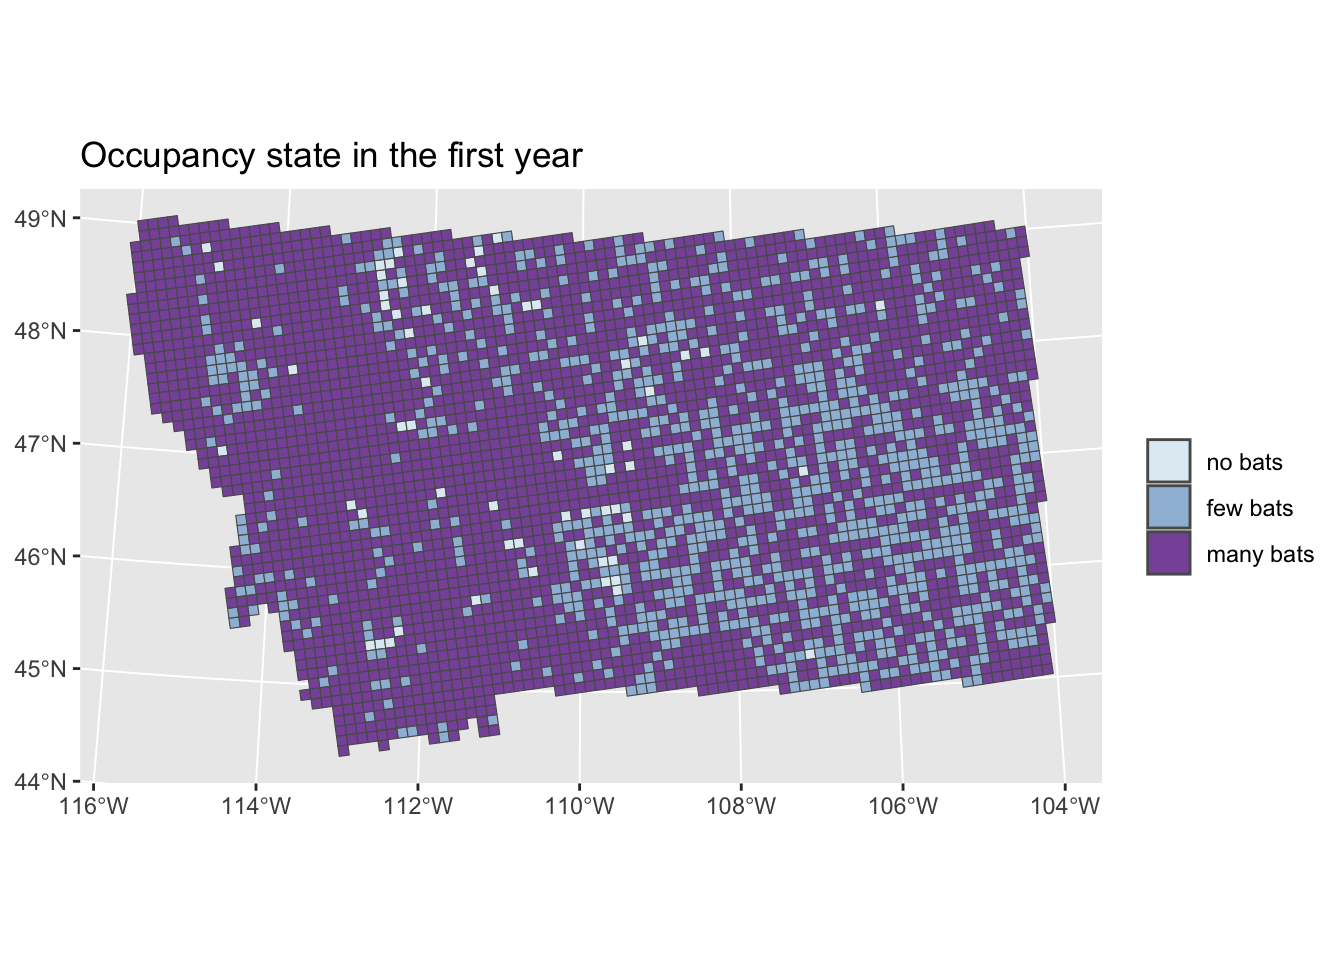
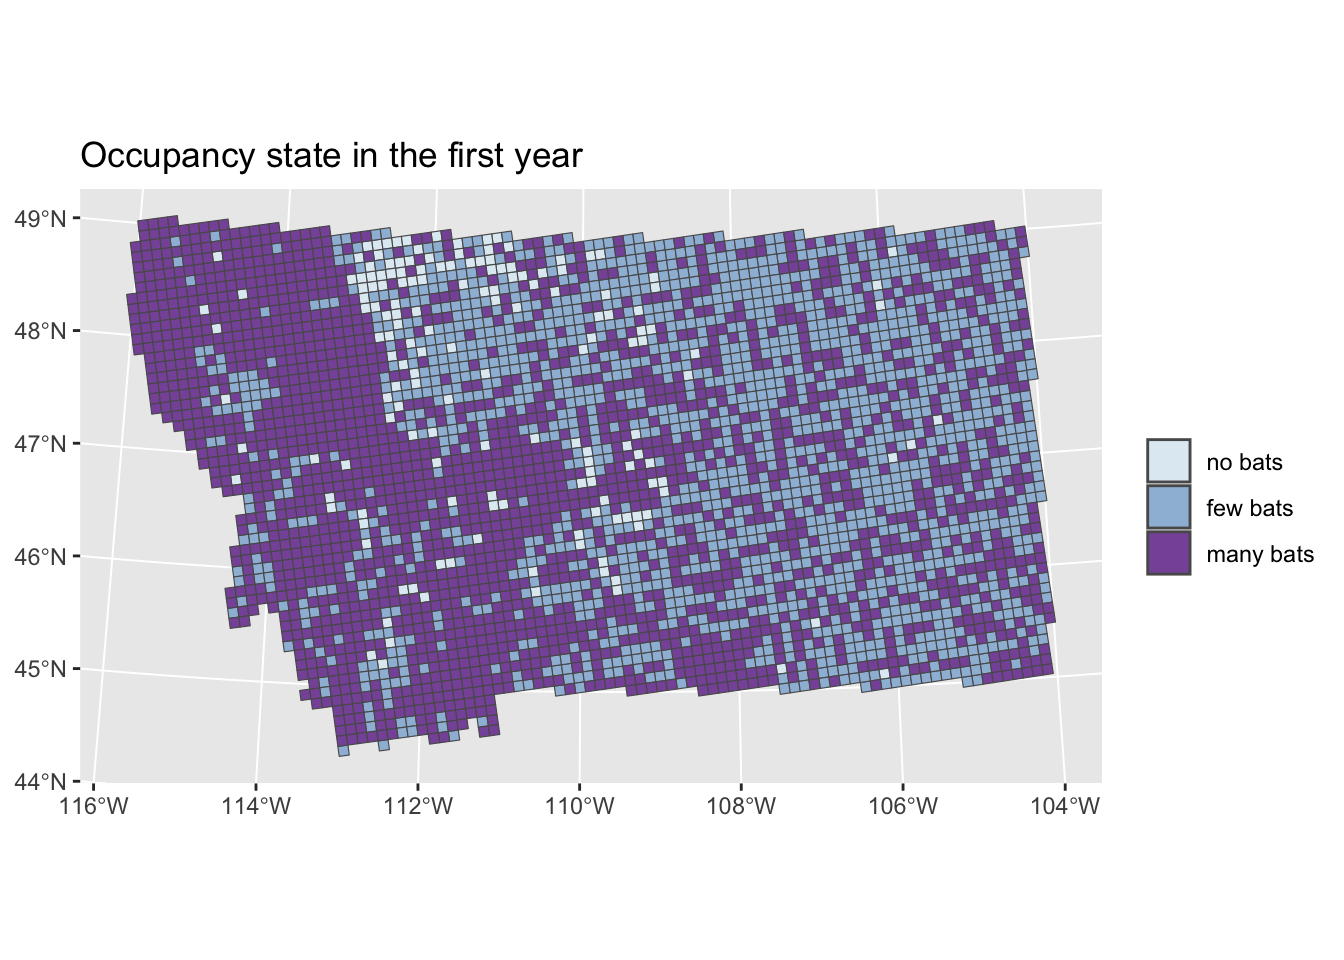
updated predictions with new output from model

Changed region(s): [[0.125, 0.2188, 0.7812, 0.7188], [0.2812, 0.75, 0.3438, 0.7812]]

diff --git a/docs/predictions.html b/docs/predictions.html
@@ -293,44 +293,46 @@ code span.wa { color: #60a0b0; font-weight: bold; font-style: italic; } /* Warni
 <span id="cb1-4"><a href="#cb1-4" aria-hidden="true" tabindex="-1"></a>nyears <span class="ot">&lt;-</span> <span class="dv">5</span></span>
 <span id="cb1-5"><a href="#cb1-5" aria-hidden="true" tabindex="-1"></a></span>
 <span id="cb1-6"><a href="#cb1-6" aria-hidden="true" tabindex="-1"></a><span class="co"># Giving intercepts for each ecoregion</span></span>
-<span id="cb1-7"><a href="#cb1-7" aria-hidden="true" tabindex="-1"></a>alpha.lpsi <span class="ot">&lt;-</span> <span class="fu">runif</span>(nregions, <span class="dv">0</span>, <span class="dv">2</span>)</span>
-<span id="cb1-8"><a href="#cb1-8" aria-hidden="true" tabindex="-1"></a>alpha.lr <span class="ot">&lt;-</span> <span class="fu">runif</span>(nregions, <span class="dv">0</span>, <span class="dv">2</span>)</span>
-<span id="cb1-9"><a href="#cb1-9" aria-hidden="true" tabindex="-1"></a></span>
-<span id="cb1-10"><a href="#cb1-10" aria-hidden="true" tabindex="-1"></a><span class="co"># Coefficients</span></span>
-<span id="cb1-11"><a href="#cb1-11" aria-hidden="true" tabindex="-1"></a><span class="co"># beta.lpsi &lt;- rnorm(8)</span></span>
-<span id="cb1-12"><a href="#cb1-12" aria-hidden="true" tabindex="-1"></a><span class="co"># beta.lr &lt;- rnorm(3)</span></span>
-<span id="cb1-13"><a href="#cb1-13" aria-hidden="true" tabindex="-1"></a></span>
-<span id="cb1-14"><a href="#cb1-14" aria-hidden="true" tabindex="-1"></a></span>
-<span id="cb1-15"><a href="#cb1-15" aria-hidden="true" tabindex="-1"></a>model_coefficients_psi_r <span class="ot">&lt;-</span> <span class="fu">readRDS</span>(<span class="at">file =</span> <span class="st">"modelouts/model_coefficients_psi_r.RDS"</span>) <span class="sc">%&gt;%</span> </span>
-<span id="cb1-16"><a href="#cb1-16" aria-hidden="true" tabindex="-1"></a>  <span class="fu">filter</span>(model <span class="sc">==</span> <span class="st">"M2"</span>)</span>
-<span id="cb1-17"><a href="#cb1-17" aria-hidden="true" tabindex="-1"></a></span>
-<span id="cb1-18"><a href="#cb1-18" aria-hidden="true" tabindex="-1"></a>beta.lpsi <span class="ot">&lt;-</span> model_coefficients_psi_r <span class="sc">%&gt;%</span> <span class="fu">filter</span>(coeff <span class="sc">==</span> <span class="st">"psi"</span>) <span class="sc">%&gt;%</span> <span class="fu">pull</span>(means)</span>
-<span id="cb1-19"><a href="#cb1-19" aria-hidden="true" tabindex="-1"></a>beta.lr <span class="ot">&lt;-</span> model_coefficients_psi_r <span class="sc">%&gt;%</span> <span class="fu">filter</span>(coeff <span class="sc">==</span> <span class="st">"r"</span>) <span class="sc">%&gt;%</span> <span class="fu">pull</span>(means)</span>
-<span id="cb1-20"><a href="#cb1-20" aria-hidden="true" tabindex="-1"></a></span>
-<span id="cb1-21"><a href="#cb1-21" aria-hidden="true" tabindex="-1"></a><span class="co"># build the parameters psi and r based on covariates</span></span>
-<span id="cb1-22"><a href="#cb1-22" aria-hidden="true" tabindex="-1"></a>mt_covariates <span class="sc">%&gt;%</span> </span>
-<span id="cb1-23"><a href="#cb1-23" aria-hidden="true" tabindex="-1"></a>  <span class="fu">st_drop_geometry</span>() <span class="sc">%&gt;%</span> </span>
-<span id="cb1-24"><a href="#cb1-24" aria-hidden="true" tabindex="-1"></a>  <span class="fu">transmute</span>(GRTS_ID,</span>
-<span id="cb1-25"><a href="#cb1-25" aria-hidden="true" tabindex="-1"></a>            <span class="at">elev =</span> <span class="fu">center_scale</span>(DEM_max),</span>
-<span id="cb1-26"><a href="#cb1-26" aria-hidden="true" tabindex="-1"></a>            <span class="at">forest =</span> <span class="fu">center_scale</span>(p_forest),</span>
-<span id="cb1-27"><a href="#cb1-27" aria-hidden="true" tabindex="-1"></a>            <span class="at">temp =</span> <span class="fu">center_scale</span>(mean_temp),</span>
-<span id="cb1-28"><a href="#cb1-28" aria-hidden="true" tabindex="-1"></a>            <span class="at">precip =</span> <span class="fu">center_scale</span>(precip),</span>
-<span id="cb1-29"><a href="#cb1-29" aria-hidden="true" tabindex="-1"></a>            <span class="at">wetlands =</span> <span class="fu">center_scale</span>(p_wetland),</span>
-<span id="cb1-30"><a href="#cb1-30" aria-hidden="true" tabindex="-1"></a>            <span class="at">physdiv =</span> <span class="fu">center_scale</span>(physio_div),</span>
-<span id="cb1-31"><a href="#cb1-31" aria-hidden="true" tabindex="-1"></a>            <span class="at">karst =</span> karst,</span>
-<span id="cb1-32"><a href="#cb1-32" aria-hidden="true" tabindex="-1"></a>            <span class="at">region =</span> <span class="fu">as.numeric</span>(<span class="fu">as.factor</span>(eco3_name))) <span class="sc">%&gt;%</span> </span>
-<span id="cb1-33"><a href="#cb1-33" aria-hidden="true" tabindex="-1"></a>  <span class="fu">mutate</span>(<span class="at">lpsi =</span> alpha.lpsi[<span class="fu">as.numeric</span>(region)] <span class="sc">+</span> beta.lpsi[<span class="dv">1</span>] <span class="sc">*</span> elev <span class="sc">+</span> beta.lpsi[<span class="dv">2</span>] <span class="sc">*</span> elev<span class="sc">^</span><span class="dv">2</span> <span class="sc">+</span></span>
-<span id="cb1-34"><a href="#cb1-34" aria-hidden="true" tabindex="-1"></a>           beta.lpsi[<span class="dv">3</span>] <span class="sc">*</span> temp <span class="sc">+</span> beta.lpsi[<span class="dv">4</span>] <span class="sc">*</span> temp<span class="sc">^</span><span class="dv">2</span> <span class="sc">+</span> beta.lpsi[<span class="dv">5</span>] <span class="sc">*</span> physdiv <span class="sc">+</span></span>
-<span id="cb1-35"><a href="#cb1-35" aria-hidden="true" tabindex="-1"></a>           beta.lpsi[<span class="dv">6</span>] <span class="sc">*</span> precip <span class="sc">+</span> beta.lpsi[<span class="dv">7</span>] <span class="sc">*</span> forest <span class="sc">+</span> beta.lpsi[<span class="dv">8</span>] <span class="sc">*</span> wetlands,</span>
-<span id="cb1-36"><a href="#cb1-36" aria-hidden="true" tabindex="-1"></a>         <span class="at">psi =</span> <span class="fu">exp</span>(lpsi)<span class="sc">/</span>(<span class="dv">1</span><span class="sc">+</span><span class="fu">exp</span>(lpsi)),</span>
-<span id="cb1-37"><a href="#cb1-37" aria-hidden="true" tabindex="-1"></a>         <span class="at">lr =</span> alpha.lr[<span class="fu">as.numeric</span>(region)] <span class="sc">+</span> beta.lr[<span class="dv">1</span>] <span class="sc">*</span> karst <span class="sc">+</span></span>
-<span id="cb1-38"><a href="#cb1-38" aria-hidden="true" tabindex="-1"></a>           beta.lr[<span class="dv">2</span>] <span class="sc">*</span> forest <span class="sc">+</span> beta.lr[<span class="dv">3</span>] <span class="sc">*</span> physdiv,</span>
-<span id="cb1-39"><a href="#cb1-39" aria-hidden="true" tabindex="-1"></a>         <span class="at">r =</span> <span class="fu">exp</span>(lr)<span class="sc">/</span>(<span class="dv">1</span><span class="sc">+</span><span class="fu">exp</span>(lr))) <span class="ot">-&gt;</span> scaled_covariates</span>
-<span id="cb1-40"><a href="#cb1-40" aria-hidden="true" tabindex="-1"></a></span>
-<span id="cb1-41"><a href="#cb1-41" aria-hidden="true" tabindex="-1"></a></span>
-<span id="cb1-42"><a href="#cb1-42" aria-hidden="true" tabindex="-1"></a>psi <span class="ot">&lt;-</span> scaled_covariates<span class="sc">$</span>psi</span>
-<span id="cb1-43"><a href="#cb1-43" aria-hidden="true" tabindex="-1"></a>r <span class="ot">&lt;-</span> scaled_covariates<span class="sc">$</span>r</span>
-<span id="cb1-44"><a href="#cb1-44" aria-hidden="true" tabindex="-1"></a>Omega <span class="ot">&lt;-</span> <span class="fu">matrix</span>(<span class="fu">c</span>(<span class="dv">1</span><span class="sc">-</span>psi, psi<span class="sc">*</span>(<span class="dv">1</span><span class="sc">-</span>r), psi<span class="sc">*</span>r), <span class="at">ncol =</span> <span class="dv">3</span>)</span></code><button title="Copy to Clipboard" class="code-copy-button"><i class="bi"></i></button></pre></div>
+<span id="cb1-7"><a href="#cb1-7" aria-hidden="true" tabindex="-1"></a><span class="co"># Idaho batholith was not sampled in the data, so we don't have an estimate for it</span></span>
+<span id="cb1-8"><a href="#cb1-8" aria-hidden="true" tabindex="-1"></a><span class="co"># We are changing those cells to Middle Rockies</span></span>
+<span id="cb1-9"><a href="#cb1-9" aria-hidden="true" tabindex="-1"></a>alpha.lpsi <span class="ot">&lt;-</span> <span class="fu">rep</span>(<span class="dv">0</span>, nregions)</span>
+<span id="cb1-10"><a href="#cb1-10" aria-hidden="true" tabindex="-1"></a>alpha.lr <span class="ot">&lt;-</span> <span class="fu">rep</span>(<span class="dv">0</span>, nregions)</span>
+<span id="cb1-11"><a href="#cb1-11" aria-hidden="true" tabindex="-1"></a></span>
+<span id="cb1-12"><a href="#cb1-12" aria-hidden="true" tabindex="-1"></a><span class="co"># Coefficients</span></span>
+<span id="cb1-13"><a href="#cb1-13" aria-hidden="true" tabindex="-1"></a><span class="co"># beta.lpsi &lt;- rnorm(8)</span></span>
+<span id="cb1-14"><a href="#cb1-14" aria-hidden="true" tabindex="-1"></a><span class="co"># beta.lr &lt;- rnorm(3)</span></span>
+<span id="cb1-15"><a href="#cb1-15" aria-hidden="true" tabindex="-1"></a></span>
+<span id="cb1-16"><a href="#cb1-16" aria-hidden="true" tabindex="-1"></a></span>
+<span id="cb1-17"><a href="#cb1-17" aria-hidden="true" tabindex="-1"></a>model_coefficients_psi_r <span class="ot">&lt;-</span> <span class="fu">readRDS</span>(<span class="at">file =</span> <span class="st">"modelouts/model_coefficients_psi_r.RDS"</span>) <span class="sc">%&gt;%</span> </span>
+<span id="cb1-18"><a href="#cb1-18" aria-hidden="true" tabindex="-1"></a>  <span class="fu">filter</span>(model <span class="sc">==</span> <span class="st">"M2"</span>)</span>
+<span id="cb1-19"><a href="#cb1-19" aria-hidden="true" tabindex="-1"></a></span>
+<span id="cb1-20"><a href="#cb1-20" aria-hidden="true" tabindex="-1"></a>beta.lpsi <span class="ot">&lt;-</span> model_coefficients_psi_r <span class="sc">%&gt;%</span> <span class="fu">filter</span>(coeff <span class="sc">==</span> <span class="st">"psi"</span>) <span class="sc">%&gt;%</span> <span class="fu">pull</span>(means)</span>
+<span id="cb1-21"><a href="#cb1-21" aria-hidden="true" tabindex="-1"></a>beta.lr <span class="ot">&lt;-</span> model_coefficients_psi_r <span class="sc">%&gt;%</span> <span class="fu">filter</span>(coeff <span class="sc">==</span> <span class="st">"r"</span>) <span class="sc">%&gt;%</span> <span class="fu">pull</span>(means)</span>
+<span id="cb1-22"><a href="#cb1-22" aria-hidden="true" tabindex="-1"></a></span>
+<span id="cb1-23"><a href="#cb1-23" aria-hidden="true" tabindex="-1"></a><span class="co"># build the parameters psi and r based on covariates</span></span>
+<span id="cb1-24"><a href="#cb1-24" aria-hidden="true" tabindex="-1"></a>mt_covariates <span class="sc">%&gt;%</span> </span>
+<span id="cb1-25"><a href="#cb1-25" aria-hidden="true" tabindex="-1"></a>  <span class="fu">st_drop_geometry</span>() <span class="sc">%&gt;%</span> </span>
+<span id="cb1-26"><a href="#cb1-26" aria-hidden="true" tabindex="-1"></a>  <span class="fu">transmute</span>(GRTS_ID,</span>
+<span id="cb1-27"><a href="#cb1-27" aria-hidden="true" tabindex="-1"></a>            <span class="at">elev =</span> <span class="fu">center_scale</span>(DEM_max),</span>
+<span id="cb1-28"><a href="#cb1-28" aria-hidden="true" tabindex="-1"></a>            <span class="at">forest =</span> <span class="fu">center_scale</span>(p_forest),</span>
+<span id="cb1-29"><a href="#cb1-29" aria-hidden="true" tabindex="-1"></a>            <span class="at">temp =</span> <span class="fu">center_scale</span>(mean_temp),</span>
+<span id="cb1-30"><a href="#cb1-30" aria-hidden="true" tabindex="-1"></a>            <span class="at">precip =</span> <span class="fu">center_scale</span>(precip),</span>
+<span id="cb1-31"><a href="#cb1-31" aria-hidden="true" tabindex="-1"></a>            <span class="at">wetlands =</span> <span class="fu">center_scale</span>(p_wetland),</span>
+<span id="cb1-32"><a href="#cb1-32" aria-hidden="true" tabindex="-1"></a>            <span class="at">physdiv =</span> <span class="fu">center_scale</span>(physio_div),</span>
+<span id="cb1-33"><a href="#cb1-33" aria-hidden="true" tabindex="-1"></a>            <span class="at">karst =</span> karst,</span>
+<span id="cb1-34"><a href="#cb1-34" aria-hidden="true" tabindex="-1"></a>            <span class="at">region =</span> <span class="fu">as.numeric</span>(<span class="fu">as.factor</span>(eco3_name))) <span class="sc">%&gt;%</span> </span>
+<span id="cb1-35"><a href="#cb1-35" aria-hidden="true" tabindex="-1"></a>  <span class="fu">mutate</span>(<span class="at">lpsi =</span> alpha.lpsi[<span class="fu">as.numeric</span>(region)] <span class="sc">+</span> beta.lpsi[<span class="dv">1</span>] <span class="sc">*</span> elev <span class="sc">+</span> beta.lpsi[<span class="dv">2</span>] <span class="sc">*</span> elev<span class="sc">^</span><span class="dv">2</span> <span class="sc">+</span></span>
+<span id="cb1-36"><a href="#cb1-36" aria-hidden="true" tabindex="-1"></a>           beta.lpsi[<span class="dv">3</span>] <span class="sc">*</span> temp <span class="sc">+</span> beta.lpsi[<span class="dv">4</span>] <span class="sc">*</span> temp<span class="sc">^</span><span class="dv">2</span> <span class="sc">+</span> beta.lpsi[<span class="dv">5</span>] <span class="sc">*</span> physdiv <span class="sc">+</span></span>
+<span id="cb1-37"><a href="#cb1-37" aria-hidden="true" tabindex="-1"></a>           beta.lpsi[<span class="dv">6</span>] <span class="sc">*</span> precip <span class="sc">+</span> beta.lpsi[<span class="dv">7</span>] <span class="sc">*</span> forest <span class="sc">+</span> beta.lpsi[<span class="dv">8</span>] <span class="sc">*</span> wetlands,</span>
+<span id="cb1-38"><a href="#cb1-38" aria-hidden="true" tabindex="-1"></a>         <span class="at">psi =</span> <span class="fu">exp</span>(lpsi)<span class="sc">/</span>(<span class="dv">1</span><span class="sc">+</span><span class="fu">exp</span>(lpsi)),</span>
+<span id="cb1-39"><a href="#cb1-39" aria-hidden="true" tabindex="-1"></a>         <span class="at">lr =</span> alpha.lr[<span class="fu">as.numeric</span>(region)] <span class="sc">+</span> beta.lr[<span class="dv">1</span>] <span class="sc">*</span> karst <span class="sc">+</span></span>
+<span id="cb1-40"><a href="#cb1-40" aria-hidden="true" tabindex="-1"></a>           beta.lr[<span class="dv">2</span>] <span class="sc">*</span> forest <span class="sc">+</span> beta.lr[<span class="dv">3</span>] <span class="sc">*</span> physdiv,</span>
+<span id="cb1-41"><a href="#cb1-41" aria-hidden="true" tabindex="-1"></a>         <span class="at">r =</span> <span class="fu">exp</span>(lr)<span class="sc">/</span>(<span class="dv">1</span><span class="sc">+</span><span class="fu">exp</span>(lr))) <span class="ot">-&gt;</span> scaled_covariates</span>
+<span id="cb1-42"><a href="#cb1-42" aria-hidden="true" tabindex="-1"></a></span>
+<span id="cb1-43"><a href="#cb1-43" aria-hidden="true" tabindex="-1"></a></span>
+<span id="cb1-44"><a href="#cb1-44" aria-hidden="true" tabindex="-1"></a>psi <span class="ot">&lt;-</span> scaled_covariates<span class="sc">$</span>psi</span>
+<span id="cb1-45"><a href="#cb1-45" aria-hidden="true" tabindex="-1"></a>r <span class="ot">&lt;-</span> scaled_covariates<span class="sc">$</span>r</span>
+<span id="cb1-46"><a href="#cb1-46" aria-hidden="true" tabindex="-1"></a>Omega <span class="ot">&lt;-</span> <span class="fu">matrix</span>(<span class="fu">c</span>(<span class="dv">1</span><span class="sc">-</span>psi, psi<span class="sc">*</span>(<span class="dv">1</span><span class="sc">-</span>r), psi<span class="sc">*</span>r), <span class="at">ncol =</span> <span class="dv">3</span>)</span></code><button title="Copy to Clipboard" class="code-copy-button"><i class="bi"></i></button></pre></div>
 </details>
 </div>
 </section>
